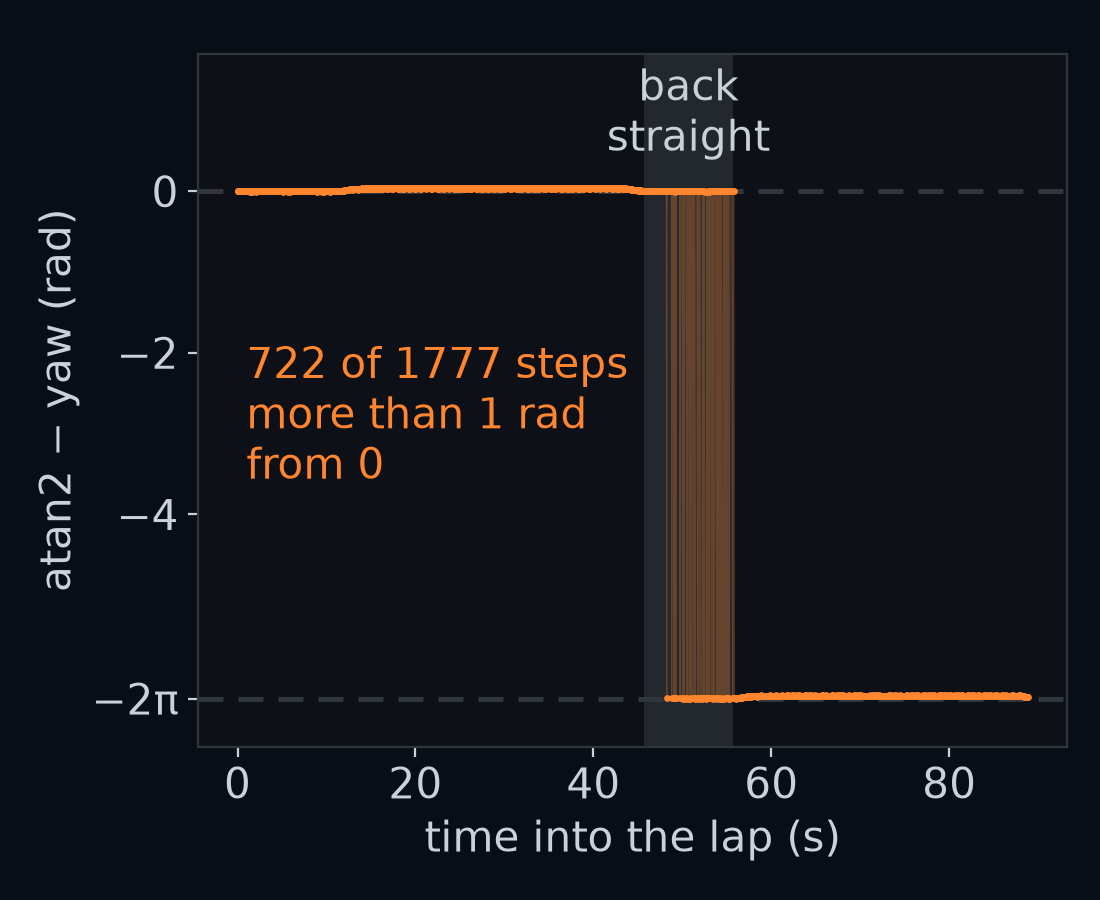
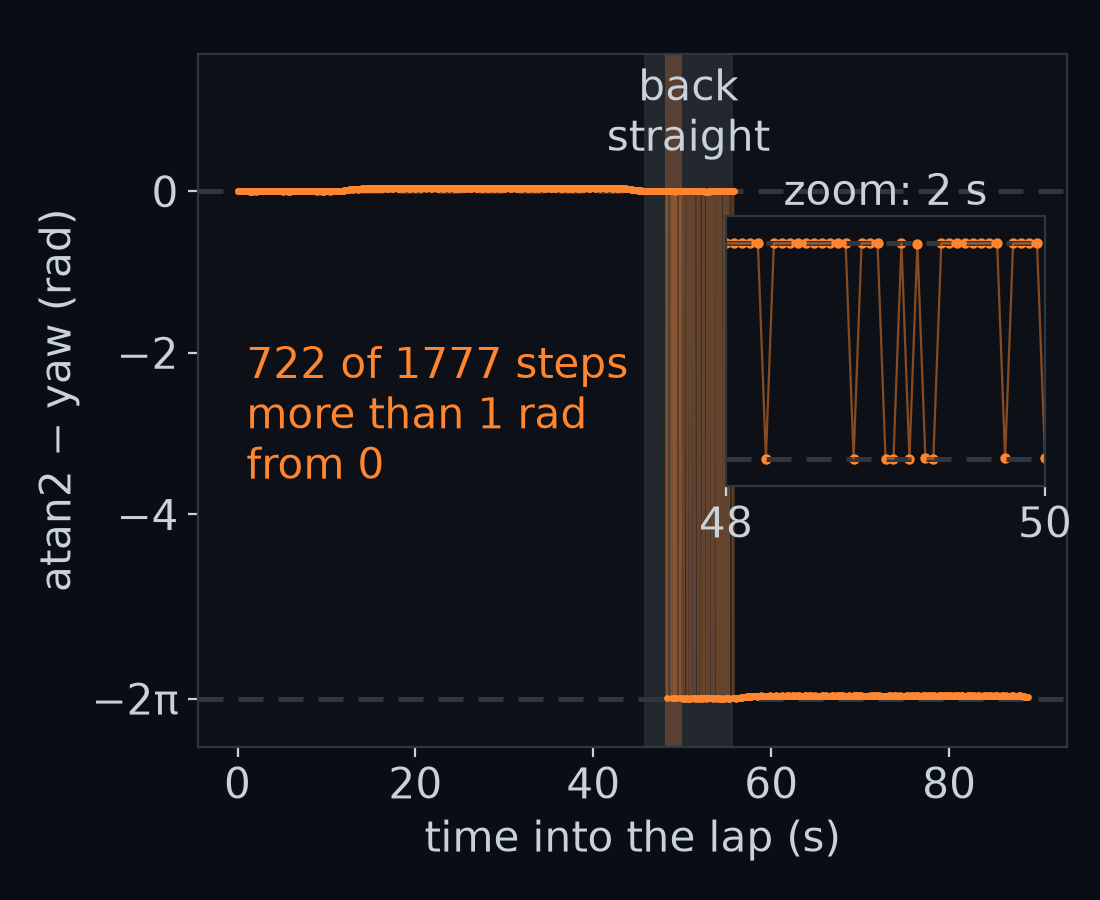
fix(1.1.1): review round 2 (tight Challenge 2 check, named Exercise B mistakes, yaw wording, raw_diff zoom)

Changed region(s): [[0.5873, 0.0622, 0.9582, 0.84], [0.9273, 0.56, 0.9891, 0.5911]]

diff --git a/zero2fsd/grade/units/u1_1_1.py b/zero2fsd/grade/units/u1_1_1.py
@@ -62,6 +62,8 @@ def _is_nan(value) -> bool:
 
 def _why_wrong(got, v) -> str:
     """The headline for a wrong direction: names the mistake whose output `got` matches at the arrow `v` (G-msg), else the general one."""
+    if np.ndim(got) != 0:
+        return f"expected one number for one arrow, got shape {np.shape(got)}"
     if not is_real(got):
         return "wrong direction for an arrow"
     x, y = float(v[0]), float(v[1])
@@ -119,12 +121,27 @@ def _direction_angle(fn, show, on_step):
         raise Failure(f"expected one angle per arrow, shape {(len(arrows),)}", given=given, got=f"shape {np.shape(got)}")
     want_lap = np.arctan2(arrows[:, 1], arrows[:, 0])
     if not np.all(np.abs(got - want_lap) <= TOL):  # entry by entry first; the yaw miss below is extra evidence
-        worst = int(np.argmax(np.abs(got - want_lap)))
+        wrong = np.abs(got - want_lap) > TOL
+        worst = int(np.argmax(np.where(wrong, np.abs(wrap_angle(got - want_lap)), -1.0)))  # worst by the wrapped miss, so a +pi/-pi flip does not outrank a real error
         raise Failure(_why_wrong(got[worst], arrows[worst]), given=f"step arrow {worst}: {fmt(arrows[worst])}", expected=want_lap[worst], got=got[worst])
     miss = miss_from_yaw(got)
     if not miss < LAP_TOL:
         raise Failure(f"some step's direction is far from the car's yaw: worst miss {fmt(miss)} rad {vs_limit(miss, LAP_TOL, 'rad')}", given=given)
     return f"every case matches np.arctan2; the worst step on gentle is {miss:.4f} rad from the yaw {vs_limit(miss, LAP_TOL, 'rad')}"
+
+
+def _parts_mistake(theta: float, v, got) -> str:
+    """The headline for a wrong (forward, left) at the arrow `v`: names the mistake whose output `got` matches (G-msg), else the general one."""
+    c, s, vx, vy = math.cos(theta), math.sin(theta), float(v[0]), float(v[1])
+    forward = c * vx + s * vy
+    mistakes = [  # (what the left part would be, the message)
+        (vx * s - vy * c, "the left part has the wrong sign: it is h x v = cos(theta)*v_y - sin(theta)*v_x, not v x h"),
+        (s * vx + c * vy, "the left arrow is (-sin theta, cos theta), not (sin theta, cos theta)"),
+    ]
+    for left, message in mistakes:
+        if abs(got[0] - forward) <= PARTS_TOL and abs(got[1] - left) <= PARTS_TOL:
+            return message
+    return "wrong forward or left part"
 
 
 def _parts(pose, points):
@@ -137,7 +154,7 @@ def _parts(pose, points):
 @exercise(
     "1.1.1.b",
     checked=(f"forward and left parts of 25 seeded arrows for each of 40 seeded poses (x, y up to 200 m, yaw up to 10 rad), and for 40 "
-             f"headings at once, against the camera's own `to_vehicle` to {PARTS_TOL}"),
+             f"yaws at once, against the camera's own `to_vehicle` to {PARTS_TOL}"),
     section="Ahead and to the left",
 )
 def _forward_left(fn, show, on_step):
@@ -151,10 +168,10 @@ def _forward_left(fn, show, on_step):
             raise Failure(f"expected shape {want.shape}: (forward, left) for each arrow", given=given, got=f"shape {np.shape(got)}")
         if not np.all(np.abs(got - want) <= PARTS_TOL):
             bad = int(np.argmax(np.where(np.abs(got - want) <= PARTS_TOL, -1.0, np.abs(got - want)).max(axis=1)))
-            raise Failure("wrong forward or left part", given=f"yaw {pose[2]:.4f} rad and arrow {fmt(arrows[bad])}", expected=want[bad], got=got[bad])
+            raise Failure(_parts_mistake(pose[2], arrows[bad], got[bad]), given=f"yaw {pose[2]:.4f} rad and arrow {fmt(arrows[bad])}", expected=want[bad], got=got[bad])
     given = "40 yaws, one arrow each: theta of shape (40,), v of shape (40, 2)"
     got = _as_floats(call(fn, poses[:, 2].copy(), (points[:, 0] - poses[:, :2]).copy(), given=given), given)
     want = np.stack([_parts(pose, p[0]) for pose, p in zip(poses, points)])
     if np.shape(got) != want.shape or not np.all(np.abs(got - want) <= PARTS_TOL):
-        raise Failure("with an array of headings, row i must use heading i", given=given, expected=f"shape {want.shape}", got=f"shape {np.shape(got)}")
-    return "40 poses x 25 arrows, and 40 headings at once, all match the camera's own forward and left"
+        raise Failure("with an array of yaws, row i must use yaw i", given=given, expected=f"shape {want.shape}", got=f"shape {np.shape(got)}")
+    return "40 poses x 25 arrows, and 40 yaws at once, all match the camera's own forward and left"

diff --git a/tests/zero2fsd/test_u1_1_1.py b/tests/zero2fsd/test_u1_1_1.py
@@ -126,10 +126,33 @@ def first_heading_only(theta, v):  # a heading per arrow is ignored
     return SOLUTION.forward_left(np.ravel(theta)[0], v)
 
 
-@pytest.mark.parametrize("answer", [cross_the_wrong_way, left_arrow_as_sin_cos, first_heading_only])
-def test_a_wrong_forward_left_is_refused(answer):
+def forward_negated(theta, v):  # a mistake the lab does not list
+    out = SOLUTION.forward_left(theta, v)
+    return np.stack([-out[..., 0], out[..., 1]], axis=-1)
+
+
+@pytest.mark.parametrize("answer, said", [
+    (cross_the_wrong_way, "wrong sign"),
+    (left_arrow_as_sin_cos, "(-sin theta, cos theta), not (sin theta, cos theta)"),
+    (forward_negated, "wrong forward or left part"),  # unnamed, but still honest
+    (first_heading_only, "row i must use yaw i"),
+])
+def test_a_wrong_forward_left_is_refused_and_a_known_mistake_is_named(answer, said):
     result = check("1.1.1.b", answer, show=False)
-    assert not result.passed and ("wrong forward or left part" in text(result) or "row i must use heading i" in text(result)), text(result)
+    assert not result.passed and said in text(result), text(result)
+
+
+def test_a_direction_that_is_a_pair_of_numbers_says_it_wants_one_number():
+    result = check("1.1.1.a", lambda v: np.array([0.0, np.nan]), show=False)
+    assert not result.passed and "expected one number for one arrow, got shape (2,)" in text(result), text(result)
+
+
+def test_the_lap_check_reports_a_real_miss_not_a_flip_across_the_cut():
+    def smoothed(v):  # each angle averaged with its neighbours: wrong, and flips at the cut
+        out = np.asarray(SOLUTION.direction_angle(v), dtype=float) if np.ndim(v) == 2 else SOLUTION.direction_angle(v)
+        return out if np.ndim(v) < 2 or len(v) < 100 else np.convolve(out, np.ones(3) / 3, mode="same")
+    said = text(check("1.1.1.a", smoothed, show=False))
+    assert "step arrow" in said and "-3.1415" not in said, said
 
 
 # --- previews -----------------------------------------------------------------------------------------------------

diff --git a/course/1.1.1-positions-and-headings/figures.py b/course/1.1.1-positions-and-headings/figures.py
@@ -354,6 +354,16 @@ def _raw_diff(path):  # [raw] [jumps] [raw_after]
     _text(ax, 0.5 * (t[back].min() + t[back].max()), 0.95, "back\nstraight", TEXT)
     far = int((np.abs(raw) > 1).sum())
     _text(ax, 1.0, -2.8, f"{far} of {len(raw)} steps\nmore than 1 rad\nfrom 0", THETA, ha="left", box=True)
+    lo, hi = 48.0, 50.0  # a 2 s window of the back straight, where the steps flip between the two lines
+    ax.axvspan(lo, hi, fc=THETA, alpha=0.25, lw=0, zorder=0)
+    zoom = fig.add_axes([0.66, 0.46, 0.29, 0.30])
+    window = (t >= lo) & (t <= hi)
+    zoom.plot(t[window], raw[window], color=THETA, lw=0.8, alpha=0.5)
+    zoom.scatter(t[window], raw[window], s=14, color=THETA, linewidths=0)
+    for y in (0.0, -2 * PI):
+        zoom.axhline(y, color=BORDER, ls=(0, (5, 3)), lw=1.8, zorder=1)
+    zoom.set(xlim=(lo, hi), ylim=(-2 * PI - 0.8, 0.8), xticks=[lo, hi], yticks=[])
+    zoom.set_title("zoom: 2 s", fontsize=FS, pad=4)
     _save(fig, path)
 
 

diff --git a/course/1.1.1-positions-and-headings/lab.py b/course/1.1.1-positions-and-headings/lab.py
@@ -338,7 +338,7 @@ probes = np.vstack([[[0.0, 1.0], [0.0, -1.0], [-1.0, 0.0], [0.0, 0.0]], np.rando
 
 if atan2_by_hand(probes) is not None:
     want = np.where((probes == 0).all(axis=1), np.nan, np.arctan2(probes[:, 1], probes[:, 0]))
-    practice("atan2_by_hand matches np.arctan2 on all 34 probes, nan for the zero arrow", float(np.allclose(atan2_by_hand(probes), want, atol=1e-12, equal_nan=True)), 1.0, tol=0)
+    practice("atan2_by_hand matches np.arctan2 on all 34 probes, nan for the zero arrow", float(np.allclose(atan2_by_hand(probes), want, rtol=0, atol=1e-12, equal_nan=True)), 1.0, tol=0)
 
 # %% [markdown]
 # ## What's next

diff --git a/course/1.1.1-positions-and-headings/lecture.md b/course/1.1.1-positions-and-headings/lecture.md
@@ -115,7 +115,7 @@ A full turn is 2π = 6.2832 rad, and it changes nothing: θ and θ + 2π point t
 
 **Guess first:** on what share of the lap is atan2's answer minus the yaw, subtracted plainly, more than 1 rad from 0?
 
-![The plain difference, atan2's answer minus the yaw, at every step of the gentle lap, with thin lines joining neighbouring steps. It stays near 0 until the back straight, where the car points west. There it jumps back and forth between near 0 and near −2π, −6.28, and after it stays near −2π: 722 of the 1777 steps are more than 1 rad from 0.](figures/raw_diff.png)
+![The plain difference, atan2's answer minus the yaw, at every step of the gentle lap, with thin lines joining neighbouring steps. It stays near 0 until the back straight, where the car points west. There it jumps back and forth between near 0 and near −2π, −6.28, and after it stays near −2π: 722 of the 1777 steps are more than 1 rad from 0. The inset zooms on two seconds of the back straight, where each step lands on one line or the other.](figures/raw_diff.png)
 
 **Answer:** 40.63 %, 722 of the 1777 steps, though the two arrows never differ by more than 0.041 rad. The trouble starts on the back straight. Away from its two ends the yaw there stays between 3.1213 and 3.1421 rad, a hair either side of west, π = 3.1416. The step's arrow wobbles either side of west too, so atan2's answer flips between nearly +π and nearly −π 79 times. After the back straight the car turns through south back to east: atan2 answers between −π and 0 while the yaw keeps growing from π toward 2π, so the plain difference sits near −2π on 660 of the remaining 661 steps.
 
